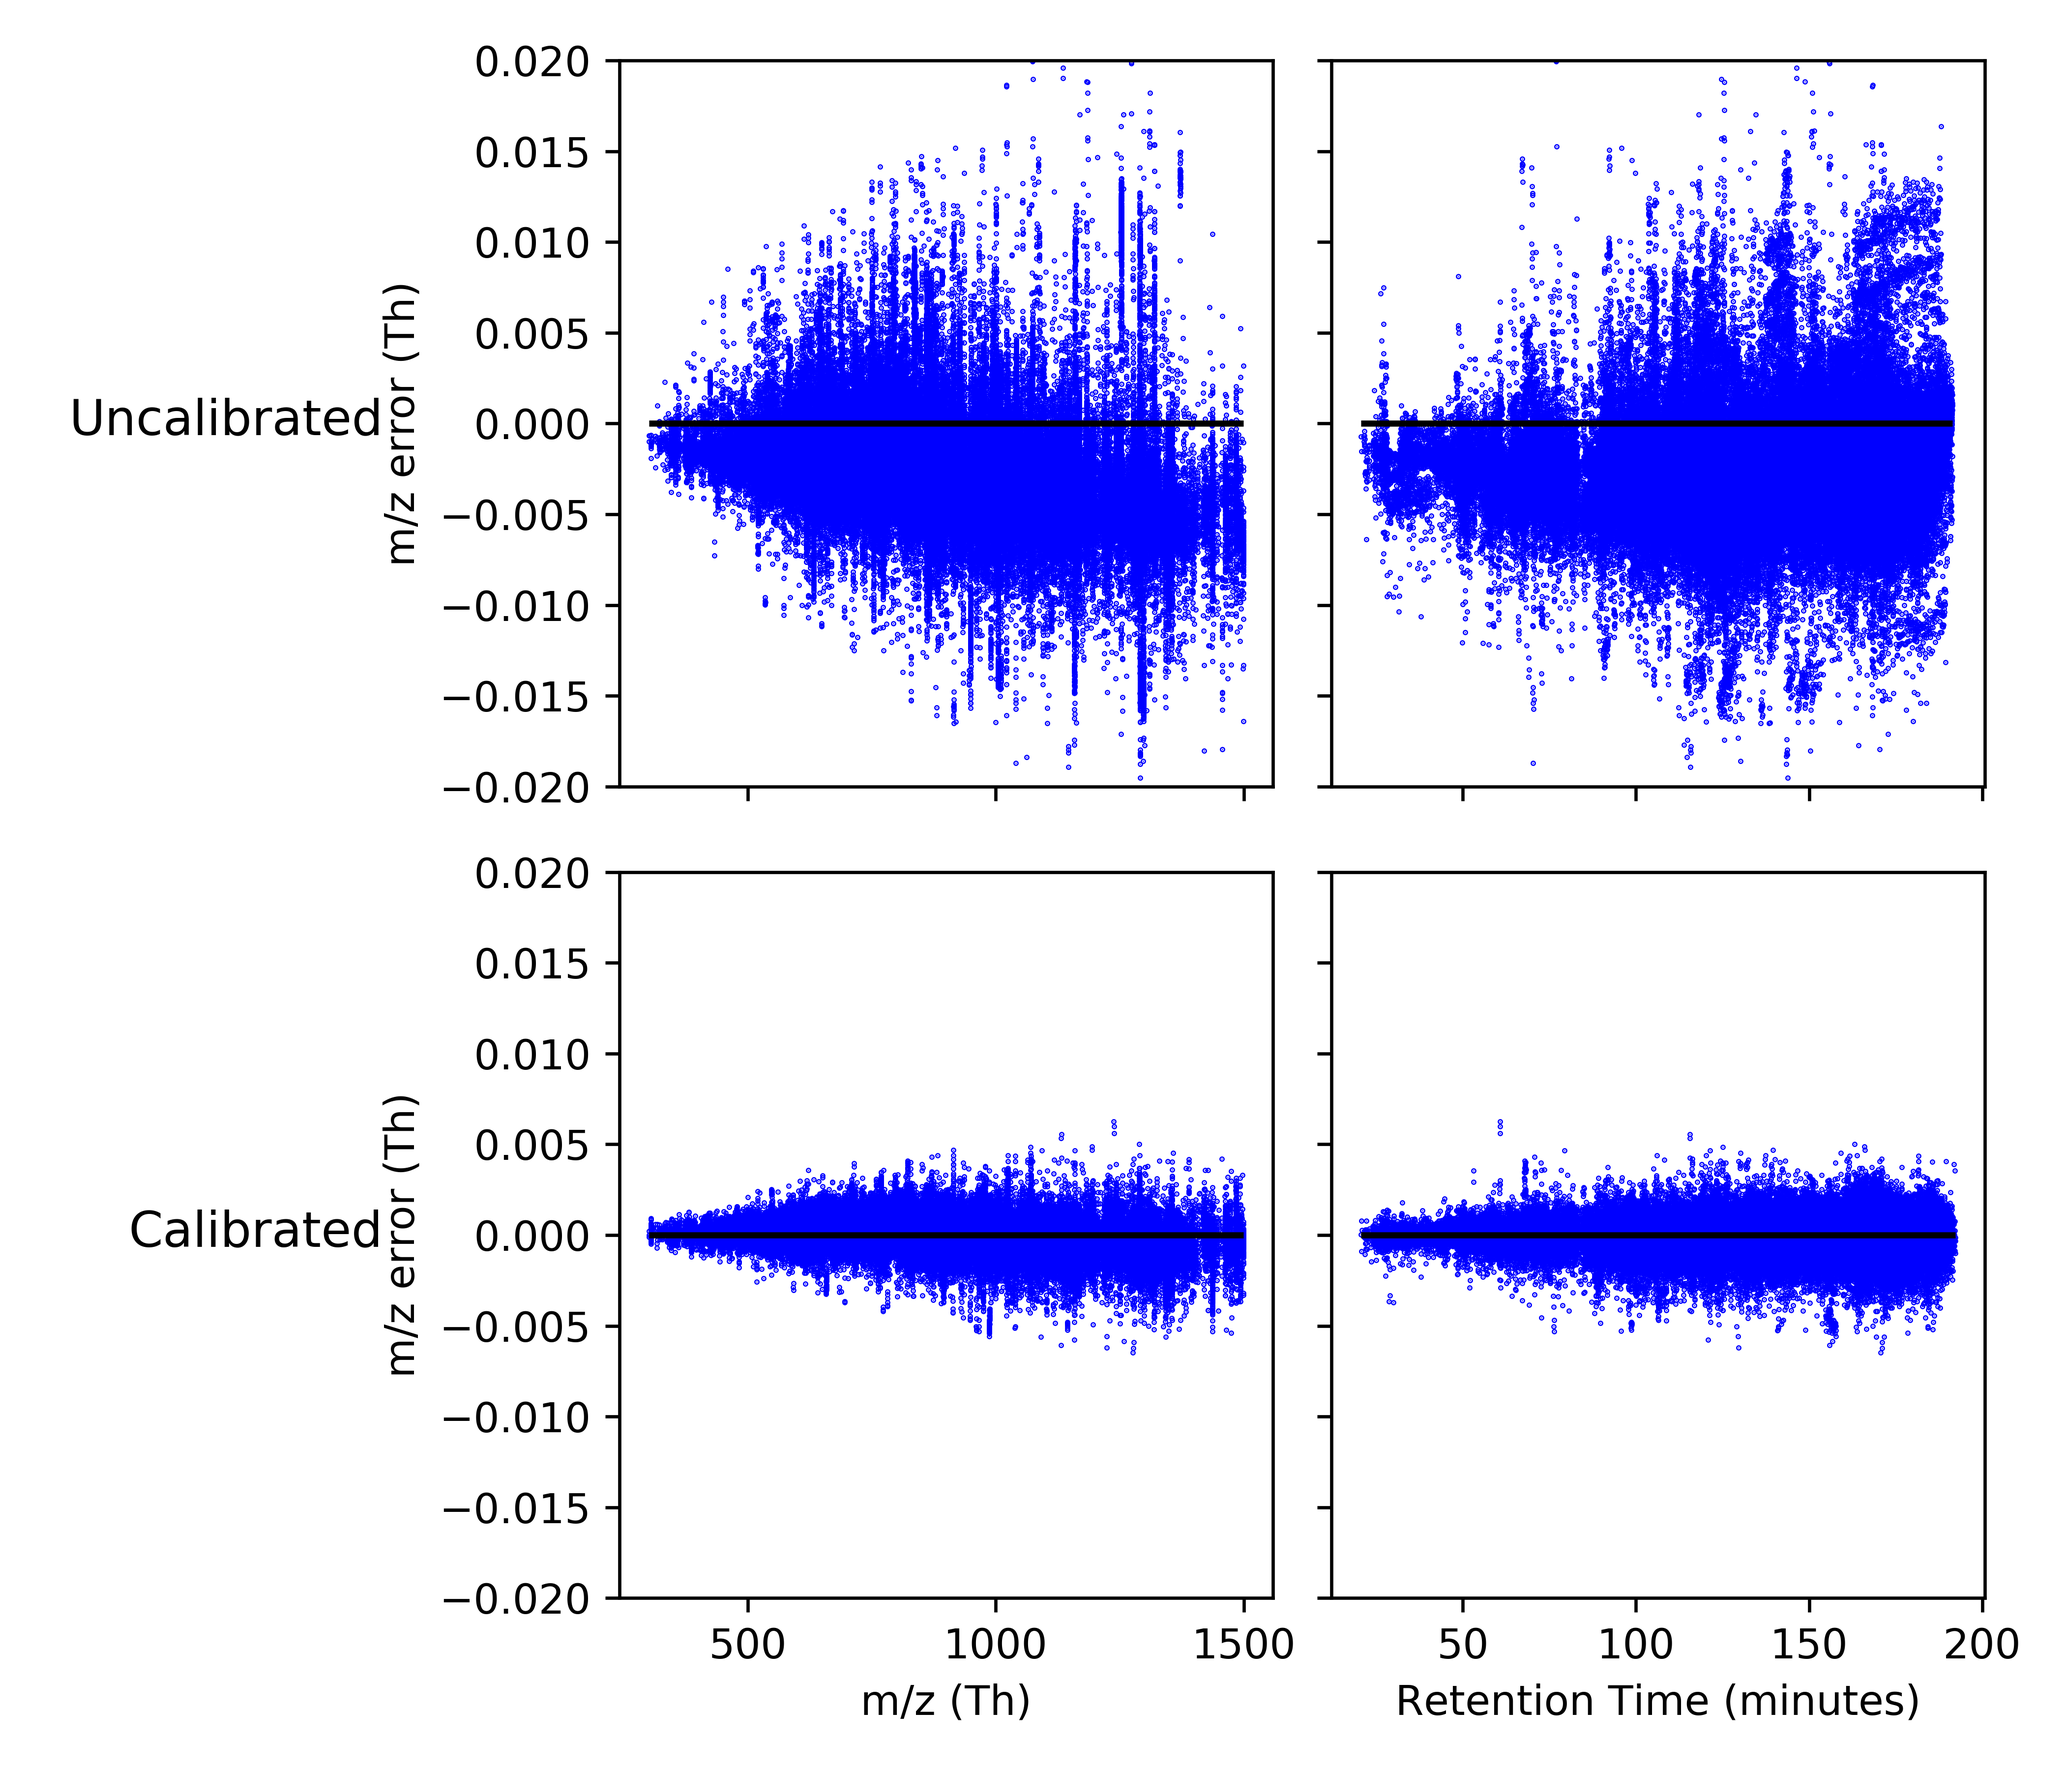
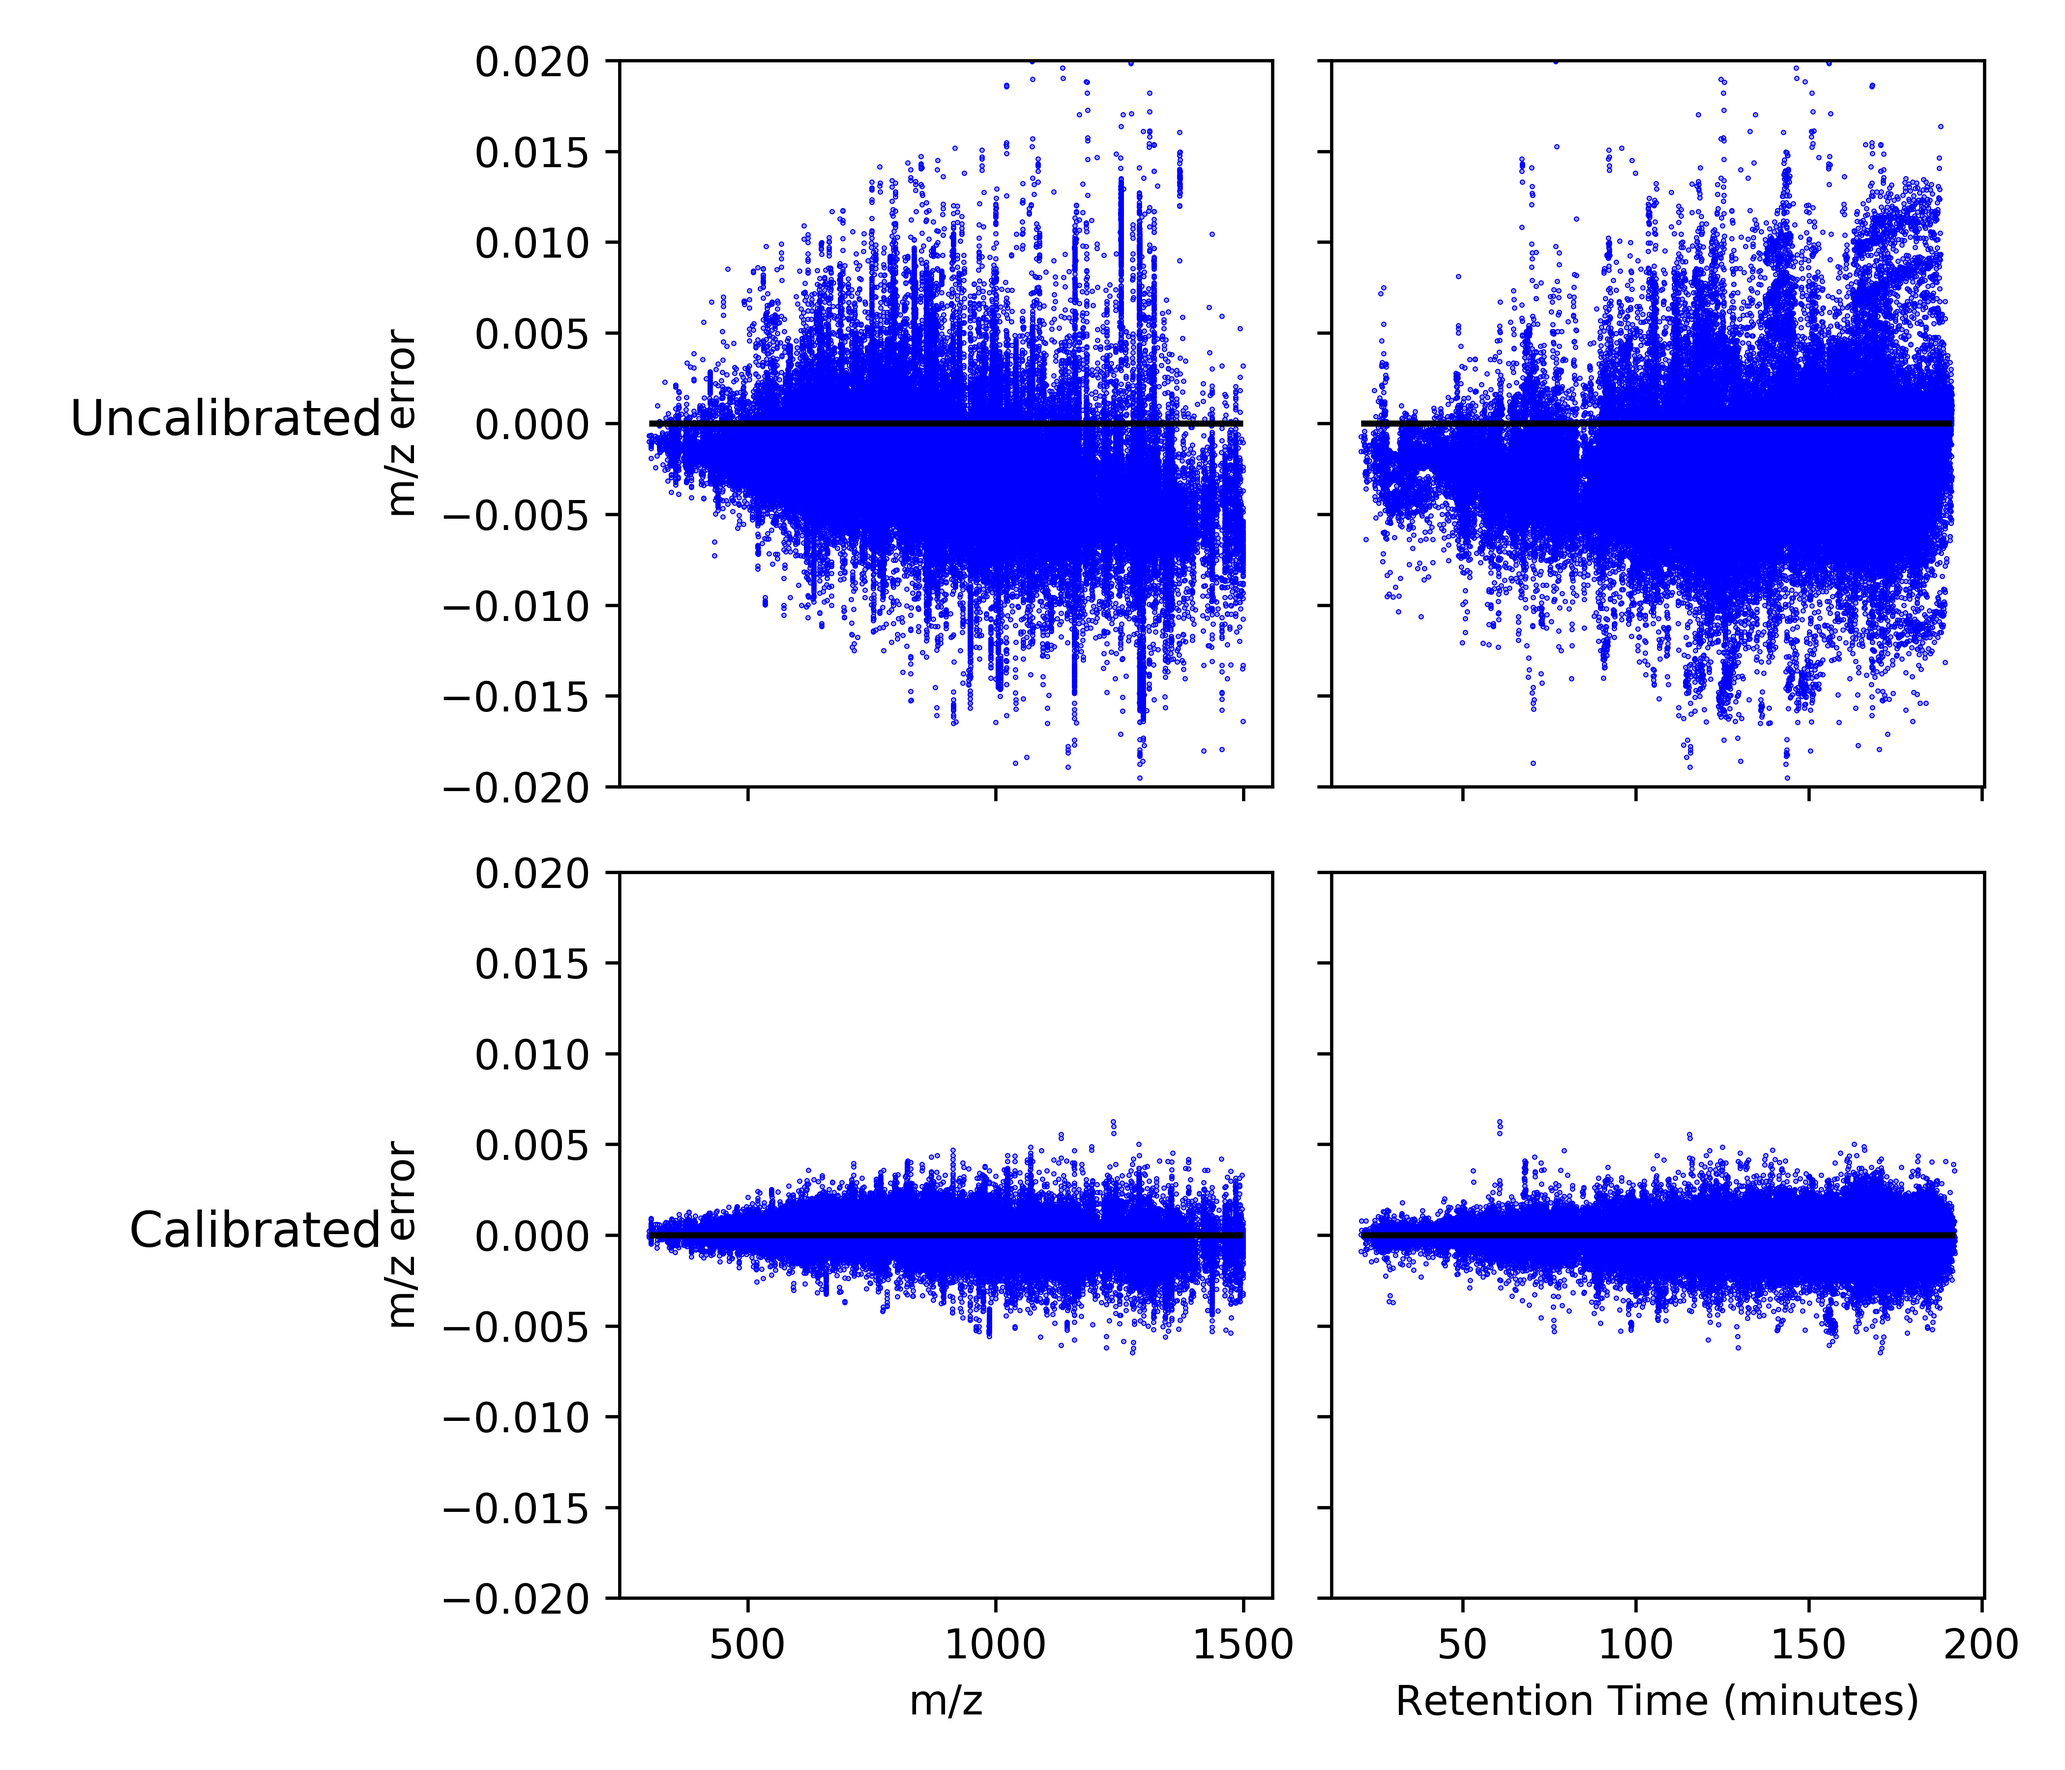
okay

diff --git a/paper.tex b/paper.tex
@@ -5,7 +5,6 @@
 \usepackage{multirow}
 \usepackage{subcaption}
 \usepackage{booktabs}
-\usepackage{hyperref}
 
 \newcommand*\mycommand[1]{\texttt{\emph{#1}}}
 
@@ -14,8 +13,9 @@
 \author{Brian L. Frey}
 \author{Lloyd M. Smith}
 \email{smith@chem.wisc.edu}
-\affiliation[UwMadison]
-{University of Wisconsin-Madison}
+\altaffiliation{Genome Center of Wisconsin, University of Wisconsin-Madison, Madison, WI, USA}
+\affiliation[UW Madison]
+{Department of Chemistry, University of Wisconsin-Madison, Madison, WI, USA}
 	
 \title{Enhanced Global PTM Discovery (G-PTM-D) with MetaMorpheus}
 
@@ -66,8 +66,8 @@ The database augmentation step is similar to the original G-PTM-D procedure, but
 The final narrow-window search is also replaced by a limited multi-notch search that accommodates errors in the precursor mass deisotoping (+1.0029 and +2.0054), and the capability for identifying co-isolated peptides, further increasing the number of confidently identified peptides and PTMs.
 
 \begin{figure}[H]
-  \includegraphics[scale=0.5]{paperDiagram.png}
-  \caption{The three steps of the G-PTM-D workflow are indicated in the light beige color. The dark orange color corresponds to the inputs.}
+  \includegraphics[scale=0.75]{paperDiagram.png}
+  \caption{Comparing the original G-PTM-D workflow with the proposed enhanced workflow. Major changes are highlighted in pink.}
   \label{fgr:diagram}
 \end{figure}
 
@@ -195,7 +195,8 @@ These plots clearly show that numerous peptides have missed monoisotopic peaks, 
 \label{fig:fig4jurkat-1012}
 \end{figure}
 
-We propose a limited multi-notch search as a remedy to the trade-offs caused by choosing a narrow (few ppm) or wide (few Da) precursor mass tolerance during a traditional narrow-window search.
+A multi-notch search is a remedy to the trade-offs caused by choosing a narrow (few ppm) or wide (few Da) precursor mass tolerance during a traditional narrow-window search.
+It is not novel, and many useful search tools such as Tandem, MSGF+, Coment, MSFragger, Sequest have this search functionality under names such as "isotope error option".
 This limited multi-notch search allows mass differences between precursor and theoretical peptides of 0, 1.0029 and 2.0054 Da, but it limits the width around these three mass differences to a few ppm (e.g. 1-20 ppm).
 This approach provides a means of getting an increased number of correct identifications while mitigating problems with incorrect identifications.
 This alternative would appear to result in loss of identification of co-isolated peptides, but MetaMorpheus is programmed to handle this problem by identifying multiple co-isolated precursor masses (see section below).
@@ -260,6 +261,8 @@ So, instead of having a PSM with an unidentifiable mass difference of -416.3103 
 79.96 peak     & 732   (0.68\% FDR)       & 957  (0.84\% FDR)   \\
 \end{tabular}
 \end{table}
+
+The results of a multi-notch search are assessed using notch-specific FDRs, computed individually for each notch, similarly to MsFragger.
 
 \subsection{Co-isolation}
 

diff --git a/FigureGeneration/fig1-calibErrors.py b/FigureGeneration/fig1-calibErrors.py
@@ -39,7 +39,7 @@ ax1.plot(nice['mz'],nice['LabelTh'], 'bo',markersize = .3)
 ax1.hlines(0, min(nice['mz']), max(nice['mz']), zorder = 10)
 ax1.set_ylim([minY,maxY])
 
-ax1.set_ylabel('m/z error (Th)')
+ax1.set_ylabel('m/z error')
 ax1.annotate(r"Uncalibrated", xy=(0, 0.5), xycoords=ax1.yaxis.label, textcoords='offset points',
                 size='large', ha='right', va='center', xytext=(0,0.5))
 
@@ -50,8 +50,8 @@ ax2.set_ylim([minY,maxY])
 ax3.plot(nice2['mz'],nice2['LabelTh'], 'bo',markersize = .3)
 ax3.hlines(0, min(nice2['mz']), max(nice2['mz']), zorder = 10)
 
-ax3.set_ylabel('m/z error (Th)')
-ax3.set_xlabel('m/z (Th)')
+ax3.set_ylabel('m/z error')
+ax3.set_xlabel('m/z')
 
 ax3.annotate(r"Calibrated", xy=(0, 0.5), xycoords=ax3.yaxis.label, textcoords='offset points',
                 size='large', ha='right', va='center', xytext=(0,0.5))
